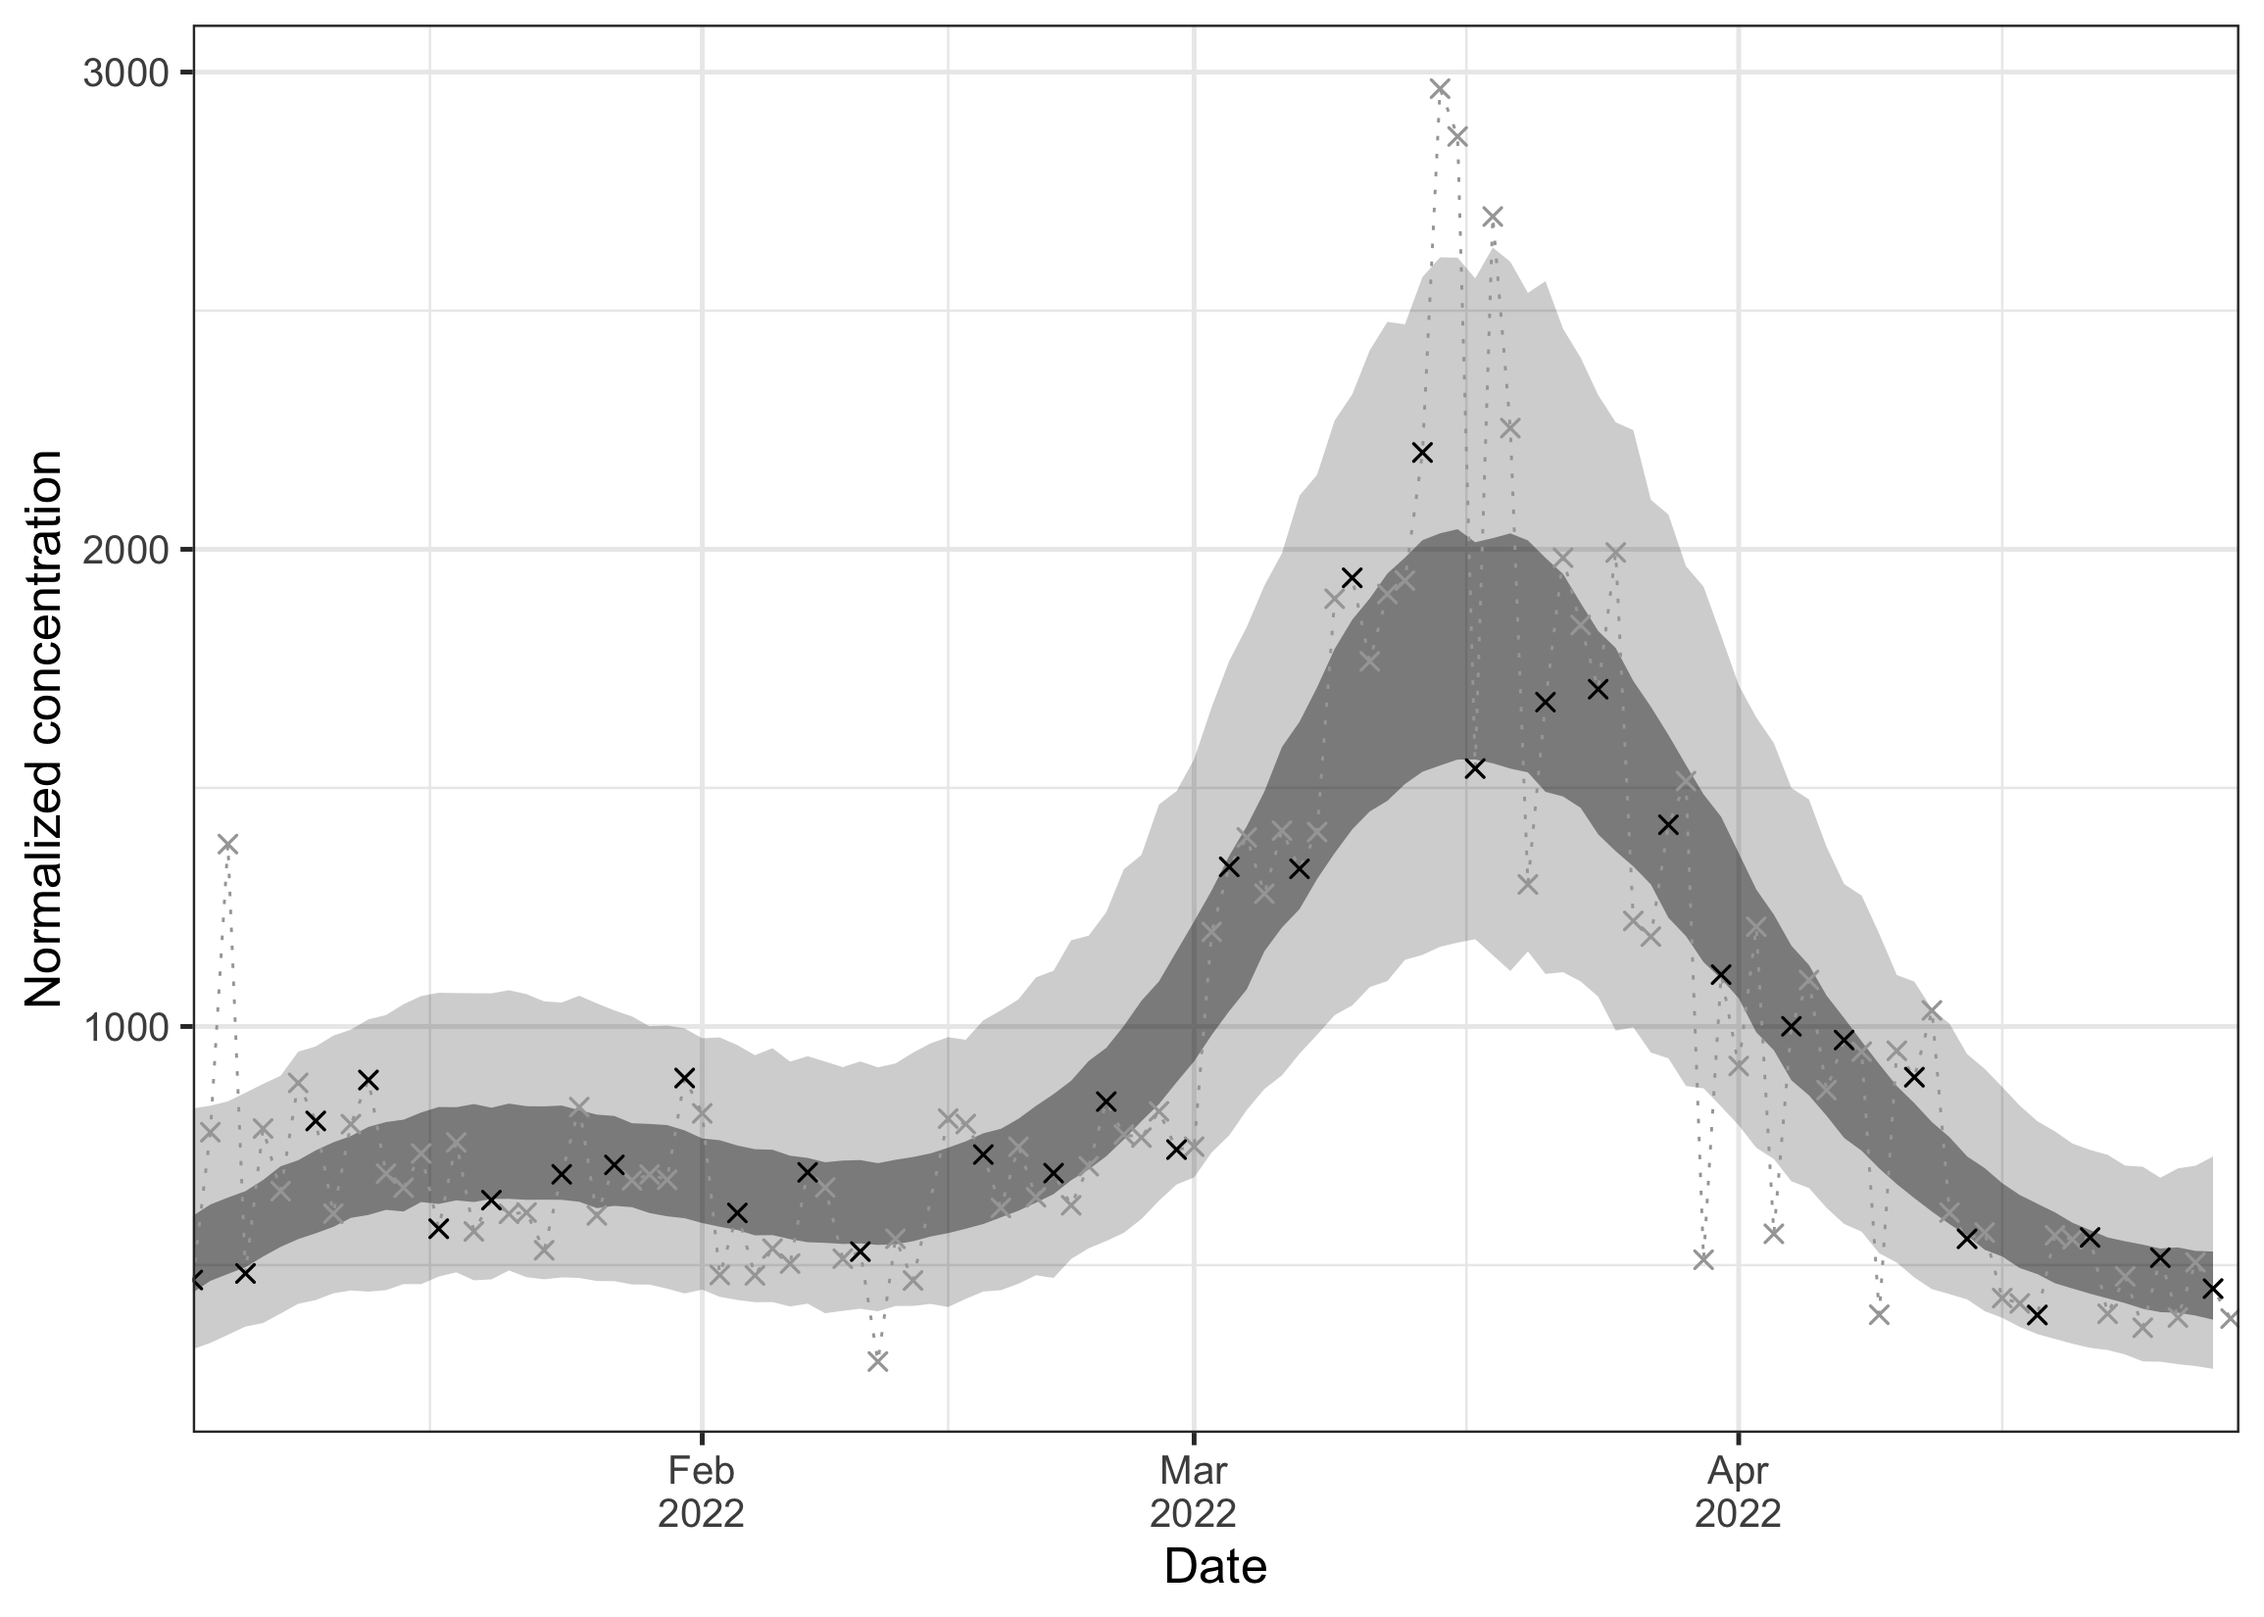
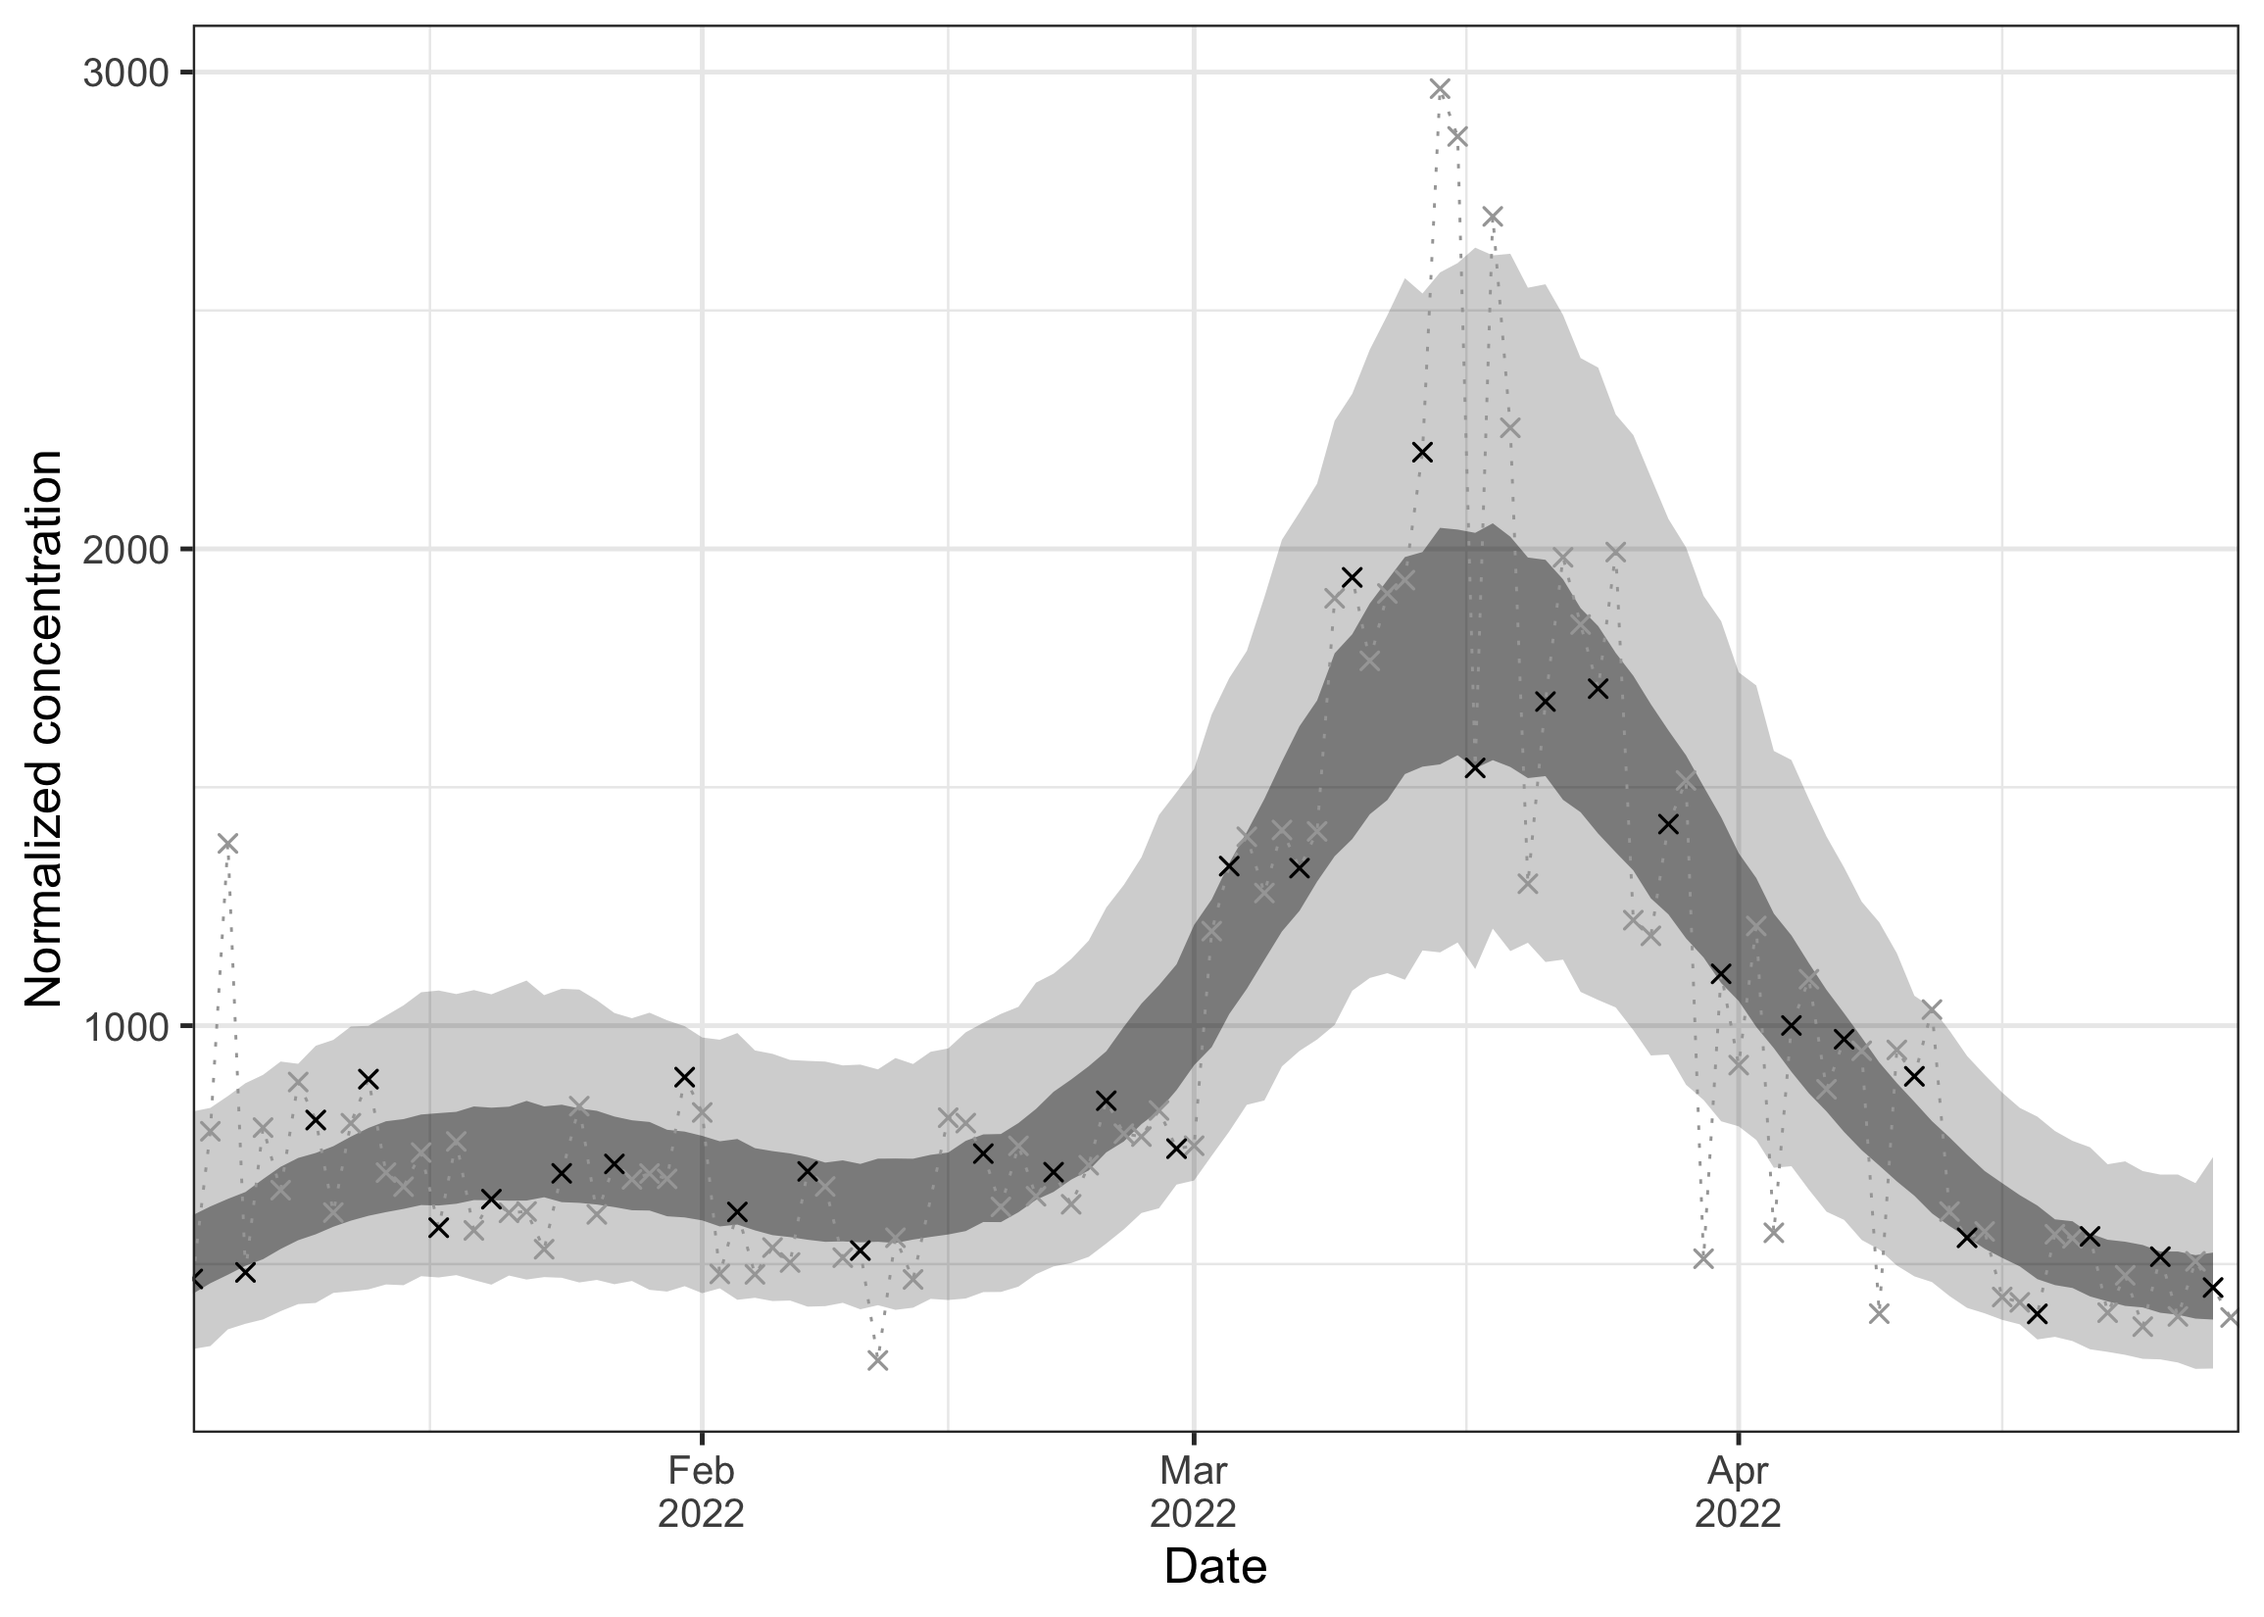
Default gp_ar_phi to 0.99

diff --git a/README.md b/README.md
@@ -299,7 +299,7 @@ Hamiltonian MCMC sampling via stan, using 4 chains with 500 warmup and
 Stan regularly provides updates about the progress of the sampler. The
 overall runtime will depend on your hardware resources, the size of the
 data, the complexity of the model used, and how well the model actually
-fits the data. On a modern laptop the example below should take about 5
+fits the data. On a modern laptop the example below should take about 7
 minutes to run.
 
 ``` r
@@ -549,11 +549,11 @@ number.
 ``` r
 head(ww_result$summary$R, 5)
 #>          date      mean    median lower_0.95 lower_0.5 upper_0.5 upper_0.95
-#> 1: 2021-12-03 0.8560564 0.8482630  0.2772660 0.6291182  1.057510   1.509294
-#> 2: 2021-12-04 0.8766471 0.8715660  0.3345569 0.6715507  1.063483   1.473215
-#> 3: 2021-12-05 0.8968627 0.8918710  0.3935783 0.7116105  1.066480   1.453430
-#> 4: 2021-12-06 0.9166269 0.9135610  0.4518082 0.7514147  1.070470   1.424528
-#> 5: 2021-12-07 0.9358757 0.9324735  0.5034643 0.7833108  1.077913   1.395807
+#> 1: 2021-12-03 0.9640861 0.9527065  0.4310854 0.7852498  1.130455   1.539073
+#> 2: 2021-12-04 0.9747671 0.9648285  0.4802296 0.8070900  1.132445   1.521714
+#> 3: 2021-12-05 0.9853968 0.9763785  0.5271689 0.8248925  1.133347   1.494667
+#> 4: 2021-12-06 0.9959923 0.9864485  0.5640496 0.8430830  1.135987   1.488622
+#> 5: 2021-12-07 1.0065567 0.9952830  0.5993325 0.8592827  1.138815   1.476473
 #>        type seeding
 #> 1: estimate    TRUE
 #> 2: estimate    TRUE
@@ -577,7 +577,7 @@ ww_result$fitted$diagnostic_summary()
 #> [1] 0 0 0 0
 #> 
 #> $ebfmi
-#> [1] 0.7917700 0.9641964 1.0156847 0.9824768
+#> [1] 0.8485633 0.8689926 0.9941091 0.8919377
 ```
 
 Finally, the `checksums` attribute gives us several checksums that
@@ -592,7 +592,7 @@ ww_result$checksums
 #> [1] "5d6e2a5b1a5cc86d0f8cea08026671ac"
 #> 
 #> $input
-#> [1] "e71bbe7dfa1ad2ccc3811fc1aee81dfb"
+#> [1] "a94d41b981a0f2f88a0c5c19c81f5856"
 #> 
 #> $fit_opts
 #> [1] "bfdedc2ea8d89b577ad57b86ac83e706"
